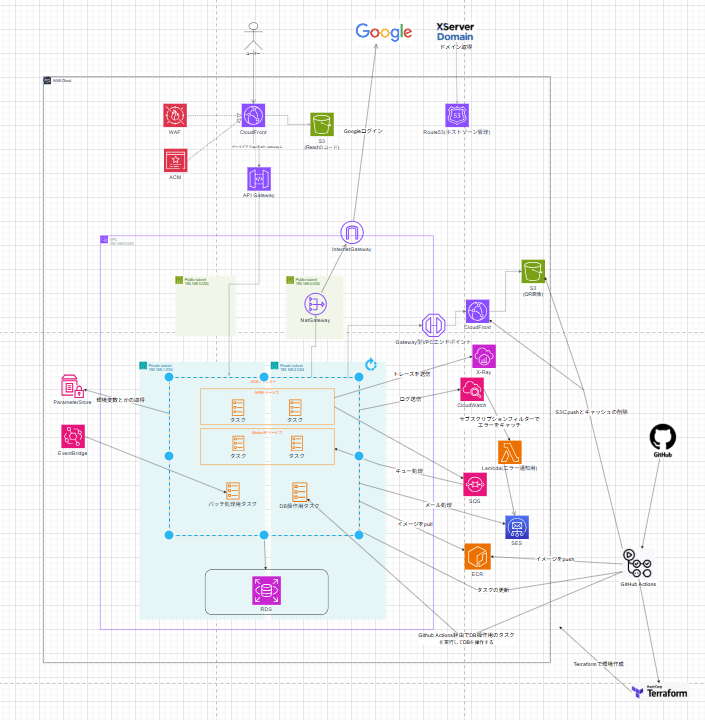
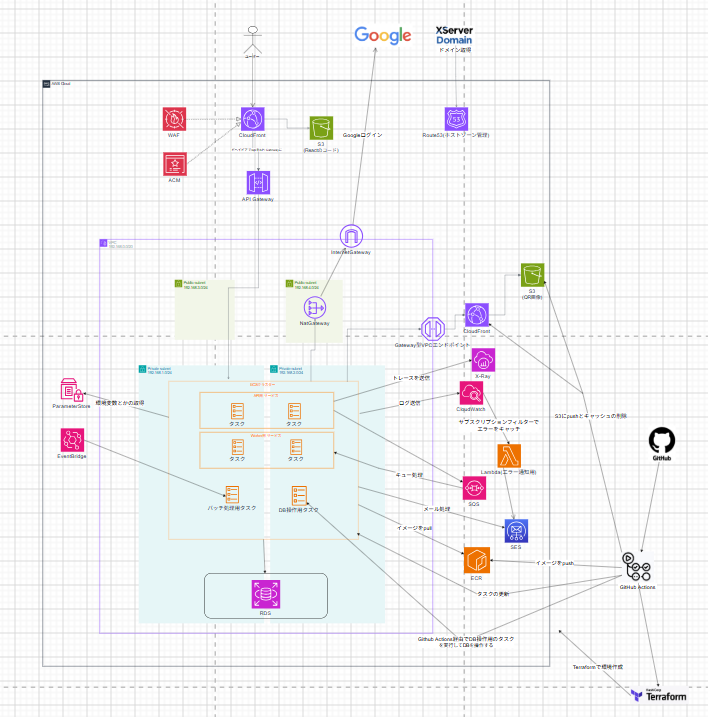
architecture.pngの更新

diff --git a/docs/db-task-workflow.md b/docs/db-task-workflow.md
@@ -10,9 +10,60 @@
 
 旧構成では `migrate.yml` と `seeder.yml` の2本に分かれており、運用で発生する非定型 DB 作業（特定ユーザーのフラグ修正、マイグレーション状態確認、キャッシュクリア等）は SSH 接続や ECS Exec を都度開ける必要がありました。本ワークフローはそれらを **承認フロー付きで安全に流せる単一窓口** に統合しています。
 
-設計思想は [keisuke69 氏の記事「GitHub Actions と ECS Run Task で DB 操作自動化」](https://www.keisuke69.net/entry/2026/05/02/173529) を参考にしていますが、`entrypoint.sh` を使わず **ECS の `containerOverrides` で `command` を直接上書きする方式** を採用したため、Laravel イメージ側 (`docker/ecr/backend/Dockerfile`) には変更を加えていません。
+設計思想は [keisuke69 氏の記事「GitHub Actions と ECS Run Task で DB 操作自動化」](https://www.keisuke69.net/entry/2026/05/02/173529) を参考にしていますが、**コマンドの渡し方** で意図的に方針を変えています（詳細は §2）。本プロジェクトでは `entrypoint.sh` を使わず ECS の `containerOverrides.command` を直接上書きする方式を採用したため、Laravel イメージ側 (`docker/ecr/backend/Dockerfile`) には変更を加えていません。
 
-## 2. なぜ ECS Exec ではなく GitHub Actions 経由か
+## 2. keisuke69 氏のアプローチとの差分（entrypoint.sh vs containerOverrides）
+
+両者とも「GitHub Actions の `workflow_dispatch` から ECS RunTask を叩き、短命タスクで DB 操作を実行する」という大枠は同じです。違いは **コマンドをどこで分岐させるか** の一点に集約されます。
+
+### keisuke69 氏の方式: イメージ内の `entrypoint.sh` で分岐
+
+keisuke69 氏は Docker イメージに `entrypoint.sh` を組み込み、`DB_COMMAND` 環境変数の値で実行内容を切り替えます。
+
+```bash
+#!/bin/sh
+case "${DB_COMMAND:-}" in
+  migrate)            npx prisma migrate deploy ;;
+  seed-master)        node scripts/seed-master.js ;;
+  seed-dev)           node scripts/seed-dev.js ;;
+  patch)              node scripts/patch.js ;;
+  generate-tts-cache) node scripts/tts-cache.js ;;
+  "")                 exec "$@" ;;  # 未設定なら通常のアプリ起動経路へ
+  *) echo "unknown DB_COMMAND: $DB_COMMAND" >&2; exit 1 ;;
+esac
+```
+
+> 上記はあくまで概念図で、記事中の実コードを写したものではありません。記事の説明から本プロジェクト向けに再構成しています。
+
+ワークフロー側からは `containerOverrides.environment` で `DB_COMMAND=seed-master` のような **シンボル名だけを渡せばよい** ため、ワークフロー YAML はスクリプトのパスや引数を一切知らずに済みます（任意コマンドを流す custom-script モードのみ `containerOverrides.command` 経由で渡す、というハイブリッド構成）。
+
+この方式が選ばれた背景には、keisuke69 氏側のプロジェクトに **`seed-master` / `seed-dev` / `patch` / `generate-tts-cache` といったドメイン固有の named operation が複数ある** ことが挙げられます。これらは単一の CLI コマンドでは表せず、複数ステップやプロジェクト固有のスクリプトを内包するため、イメージ内に名前付きで閉じ込めるメリットが大きい構成です。また、用途ごとにイメージを分けると依存関係の差分でバグが出やすいため、**1 つのイメージで全用途を賄う** ことを優先しており、その分岐ハブが `entrypoint.sh` という位置づけになっています。
+
+### 本プロジェクトの方式: ワークフロー側で `containerOverrides.command` を直接組み立てる
+
+本プロジェクトでは `entrypoint.sh` は持たず、§5 Step 4 にあるとおりワークフロー YAML 内で `case "$COMMAND_TYPE"` を分岐させ、`containerOverrides.command` をその場で組み立てて run-task に渡します。タスク定義 `runner-task` は `command` を持たないため、毎回ワークフローから与える `command` がそのまま実行コマンドになります。
+
+### 両者の比較
+
+| 観点 | keisuke69 氏 | 本プロジェクト |
+|---|---|---|
+| 分岐の置き場所 | イメージ内 `entrypoint.sh`（`DB_COMMAND` の case） | ワークフロー YAML (`case "$COMMAND_TYPE"`) |
+| containerOverrides の使い方 | 主に `environment` で `DB_COMMAND` を渡す（custom-script のみ `command`） | 常に `command` を直接上書き |
+| Dockerfile への変更 | `entrypoint.sh` の追加が必要 | 不要（本番 API イメージそのまま使う） |
+| 名前付きカスタム操作 | イメージ内スクリプトとして同梱 | `shell` モードで都度コマンドを書く |
+| ワークフローから見える情報 | シンボル名のみ（実体はイメージを読まないと分からない） | 実行コマンドそのもの |
+| 想定ユースケース | named operation が多数ある中〜大規模プロジェクト | named operation が migrate/seed の 2 種で済むシンプル構成 |
+
+### 本プロジェクトが `entrypoint.sh` を採用しなかった理由
+
+1. 必要なオペレーションが `migrate` / `seed` / 任意 `shell` の 3 種しかなく、`migrate` と `seed` は単一 artisan コマンドで済むため、イメージ内に複数行スクリプトを閉じ込める必要がない。
+2. 任意コマンドは `shell` モードで取れるようにしてあるため、keisuke69 氏が増やしていったような named operation は GitHub Actions の入力欄に直接書けば足りる。
+3. `runner-task` 用イメージを本番 API イメージ (`docker/ecr/backend/Dockerfile`) と完全同一にしておきたい。`entrypoint.sh` を入れると API 起動経路にも影響しうるため、イメージに手を入れずに ECS の `containerOverrides.command` で完結させる方が副作用が小さい。
+4. ワークフロー YAML を読めば「このジョブが何を実行するか」が `command` 配列で完全に見える。`DB_COMMAND=foo` の `foo` がイメージの中で何にマップされているかを別ファイルで追う必要がない。コマンドの所在がワークフロー側に一元化される。
+
+要するに **どちらが優れているという話ではなく、ドメイン固有スクリプトをいくつ持つかで自然と選び方が決まる** という整理です。本プロジェクトで named operation が増えてきたら、その時点で `entrypoint.sh` 方式への移行を検討するタイミングになります。
+
+## 3. なぜ ECS Exec ではなく GitHub Actions 経由か
 
 | 観点 | ECS Exec | `db-task.yml` 経由 |
 |---|---|---|
@@ -23,7 +74,7 @@
 
 非定型作業をすべて GitHub Actions に通す運用の方が、何が誰にいつ実行されたかをあとから追跡しやすく、レビュー圧もかけやすくなります。
 
-## 3. 入力パラメータ
+## 4. 入力パラメータ
 
 | 入力 | 必須 | 内容 |
 |---|---|---|
@@ -32,7 +83,7 @@
 | `shell_command` | △ | `command_type=shell` のときのみ使用。`bash -lc "<入力文字列>"` として実行される |
 | `confirm_prod` | △ | `target_env=prod` のとき `yes` を要求。ステージから本番への意図しない実行を物理的に止める |
 
-## 4. 処理フロー
+## 5. 処理フロー
 
 ```
 1. Validate inputs        : prod ゲート + shell 引数チェック
@@ -108,13 +159,13 @@ EXIT_CODE=$(aws ecs describe-tasks ... --query "tasks[0].containers[0].exitCode"
 
 完了待ちで止まり、コンテナの exit code が 0 以外ならジョブも fail させるため、マイグレーション失敗や seed 失敗が GitHub 上で赤く表示されます。
 
-## 5. シェルインジェクション対策
+## 6. シェルインジェクション対策
 
 `command_type=shell` ではユーザーの自由入力 `shell_command` を実行することになりますが、`jq --arg c "$SHELL_COMMAND"` で **JSON 文字列としてエスケープ** したうえで `["bash","-lc",$c]` の **第3引数** に渡しているため、入力に何が入っていても shell 側でメタ文字解釈されません。
 
 例えば `shell_command='rm -rf /; echo PWNED'` を入力しても、`bash -lc` の単一引数として渡されるので `bash` の中で1行のコマンド列として解釈されはしますが、**ワークフローシェルや AWS CLI の引数構造を破壊することはありません** (= run-task コマンド全体を乗っ取る攻撃は不可能)。`shell_command` 自体が任意コマンドなのでコンテナ内の挙動はオペレーターの責任ですが、ワークフロー外への漏洩・横展開は防げます。
 
-## 6. 権限境界
+## 7. 権限境界
 
 `gha_db_runner_role` の IAM ポリシー (`terraform/modules/app-infrastructure/iam_policy_github_actions.tf` の `gha_db_runner_policy`) は以下のみを許可:
 
@@ -125,7 +176,7 @@ EXIT_CODE=$(aws ecs describe-tasks ... --query "tasks[0].containers[0].exitCode"
 
 これにより、たとえ db-task.yml の手元で別のタスク定義名を指定しても **AccessDenied** で蹴られます。`runner-task` 経由でしか DB に到達できない構造です。
 
-## 7. prod 安全ゲート
+## 8. prod 安全ゲート
 
 | ゲート | 設定箇所 | 効果 |
 |---|---|---|
@@ -135,7 +186,7 @@ EXIT_CODE=$(aws ecs describe-tasks ... --query "tasks[0].containers[0].exitCode"
 
 3 つすべてを通過しないと本番に到達できません。
 
-## 8. 使用例
+## 9. 使用例
 
 ### マイグレーション適用
 
@@ -212,7 +263,7 @@ UI 入力:
 
 コンテナには `mysql` クライアントが入っていないため、生 SQL を投げたい場合は `pdo_mysql` 拡張経由で PHP から繋ぐか、Laravel 経由なら `php artisan db:show` / `php artisan db:monitor` を使います。
 
-## 9. コンテナ内で使えるコマンド
+## 10. コンテナ内で使えるコマンド
 
 `runner-task` は本番 API と同じ `docker/ecr/backend/Dockerfile` でビルドされたイメージを使うため、Laravel 実行に必要なものだけが入っており、デバッグ向けツールは最小限です。
 
@@ -242,7 +293,7 @@ UI 入力:
 
 足りないツールが恒常的に必要になったら、`docker/ecr/backend/Dockerfile` 側に `apt-get install` を足す判断になります。ただし本イメージは API として常時稼働する本番イメージでもあるため、**デバッグ目的でのパッケージ追加はイメージサイズと攻撃面の増加を伴う** ことに注意してください。
 
-## 10. 実行結果の確認
+## 11. 実行結果の確認
 
 | 確認場所 | 内容 |
 |---|---|
@@ -252,7 +303,7 @@ UI 入力:
 
 ロググループ名は Terraform の `aws_cloudwatch_log_group.ecs_log.name` から確定します。
 
-## 11. 関連ファイル
+## 12. 関連ファイル
 
 | 種類 | パス | 内容 |
 |---|---|---|
